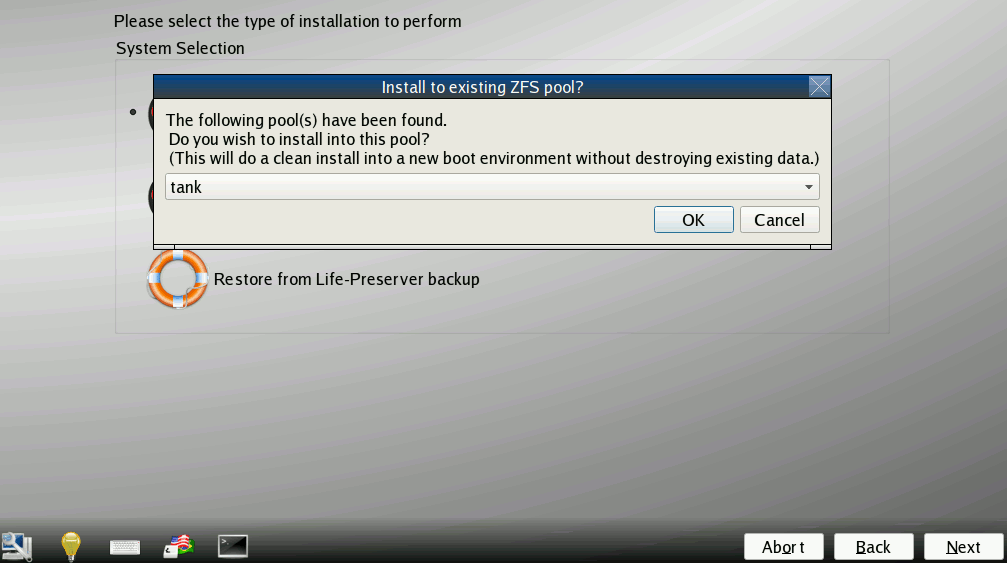
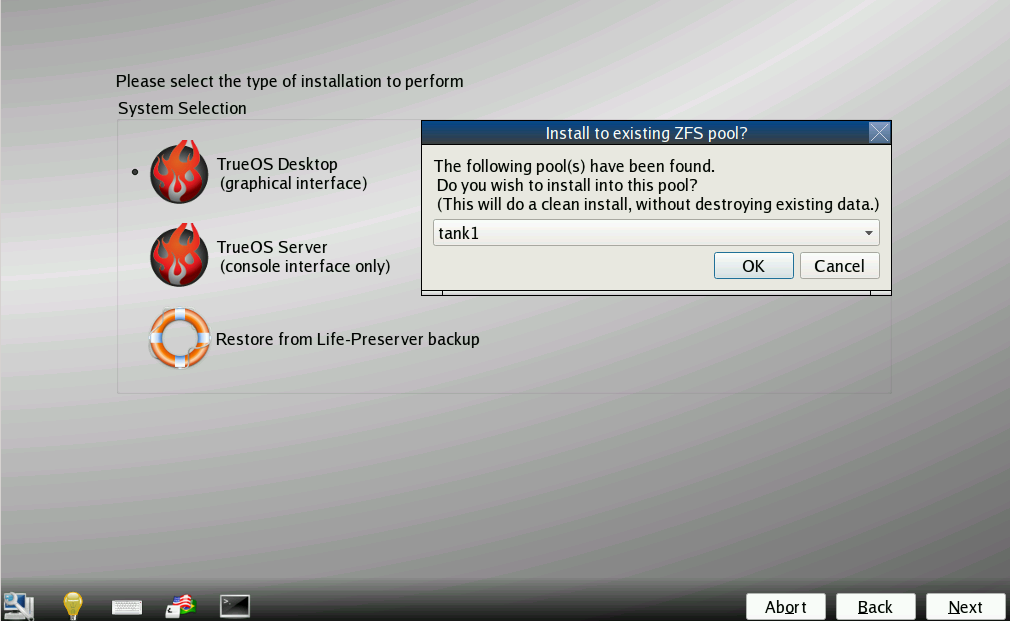
(trueos/trueos-docs #2) Issue resolution and other small changes: - Update forewarning to remove "you" and "your". - Update forewarning to reference all personacrypt accounts. - Fix other "you", "your", "that" references. - Saved deleted image upgrade1.png, renamed new image upgrade1a.png, per docum

diff --git a/trueos-handbook/sysadmclient.rst b/trueos-handbook/sysadmclient.rst
@@ -412,16 +412,17 @@ This tab contains several configurable options:
 
 * **Automatically perform updates:** When checked, the automatic
   updater automatically keeps your system and packages up-to-date.
-  You will know an update has completed when the pop-up menu indicates a
-  reboot is needed to complete the update process. If you uncheck this
-  box, an update will only occur when you choose. You are not required
-  to initiate updates manually. |trueos| uses an automated updater that
+  An update has completed when the pop-up menu indicates a reboot is
+  needed to complete the update process. If
+  :guilabel:`Automatically perform updates` is unchecked, an update will
+  only occur at the user's discretion. Updates are not required to be
+  initiated manually. |trueos| uses an automated updater which
   automatically checks for updates, no more than once per day, 20
   minutes after a reboot and then every 24 hours.
 
-* **Custom Package Repository:** If you have a custom package
-  repository, check this box. This will activate the :guilabel:`URL`
-  field so you can input the URL to the custom repository.
+* **Custom Package Repository:** To use a custom package repository for
+  updates, check this box. This will activate the :guilabel:`URL`
+  field so the user can input the URL to the custom repository.
 
 .. index:: updates
 .. _Upgrading from PC-BSD® 10.x to TrueOS®:
@@ -429,39 +430,39 @@ This tab contains several configurable options:
 Upgrading from |pcbsd| 10.x to |trueos|
 ---------------------------------------
 
-.. warning:: If your primary user account uses PersonaCrypt, please be
-   sure to save your encryption keys to a safe place (e.g. a thumb
-   drive) before you begin the upgrade process. If you do not, you may
-   not be able to import your home directory after the upgrade is
+.. warning:: If any user account uses PersonaCrypt, please be sure to
+   save any encryption keys to a safe place (e.g. a thumb drive) before
+   beginning the upgrade process. Loss of encryption keys may result in
+   being unable to import the home directory after the upgrade is
    complete.
 
-If you are currently using |pcbsd| 10.x, the option to update to
-|trueos| will not appear in the Control Panel version of Update Manager.
-This is because a new installation is required in order to migrate to
-|trueos|. However, the |trueos| installer allows you to keep all your
+If the system is using |pcbsd| 10.x, the option to update to |trueos|
+will not appear in the Control Panel version of Update Manager. This is
+because a new installation is required in order to migrate to |trueos|.
+However, the |trueos| installer allows the user to keep all their
 existing data and home directories, as it provides the ability to
 install |trueos| into a new boot environment. In other words, the new
 operating system and updated applications are installed while the ZFS
 pool and any existing boot environments are preserved. Since the new
-install is in a boot environment, you retain the option to boot back
-into your previous |pcbsd| installation.
+install is in a boot environment, the option to boot back into the
+previous |pcbsd| installation will remain.
 
-.. note:: This option overwrites the contents of :file:`/etc`. If you
-   have any custom configurations, save them to a backup or your home
+.. note:: This option overwrites the contents of :file:`/etc`. If any
+   custom configurations exist, save them to a backup or the home
    directory first. Alternately, use :ref:`Boot Environment Manager`
-   post-installation to mount your previous |pcbsd| boot environment to
-   copy over any configuration files you may forget to backup.
+   post-installation to mount the previous |pcbsd| boot environment to
+   copy over any configuration files which may not have been backed up.
 
 To perform the installation to a new boot environment, start the
 |trueos| installation as described in the
 `TrueOS® Handbook <https://www.trueos.org/handbook/trueos.html>`_. In
 the `System Selection Screen <https://www.trueos.org/handbook/install.html#system-selection-screen>`_,
 choose to install either a desktop or a server. Press :guilabel:`Next`
-to view the pop-up screen shown in :numref:`Figure %s <upgrade1>`.
+to view the pop-up screen shown in :numref:`Figure %s <upgrade1a>`.
 
-.. _upgrade1:
+.. _upgrade1a:
 
-.. figure:: images/upgrade1.png
+.. figure:: images/upgrade1a.png
 
    Install to Boot Environment
 
@@ -490,11 +491,11 @@ post-installation screens will run as described in the
 section of the |trueos| Handbook so you can configure the new
 installation.
 
-.. note:: When you encounter the
-   `Create a User Screen <https://www.trueos.org/handbook/postinstall.html#create-a-user-screen>`_,
-   recreate the primary user account using the same name you used on
-   your |pcbsd| system so |trueos| can associate the existing home
-   directory with that user. Once you have logged in, you can use
+.. note:: During the
+   `Create a User Screen <https://www.trueos.org/handbook/postinstall.html#create-a-user-screen>`_
+   process, recreate the primary user account using the same name used
+   on the previous |pcbsd| system so |trueos| can associate the
+   existing home directory with that user. Once logged in, use
    :ref:`User Manager` to recreate any other user accounts or to
    reassociate any PersonaCrypt accounts.
 
@@ -1049,9 +1050,9 @@ schedule snapshots of a ZFS pool and to optionally replicate those
 snapshots to another system over an encrypted connection. This design
 provides several benefits:
 
-* A snapshot provides a "point-in-time" image of the ZFS dataset. In one
-  way, this is similar to a full system backup as the snapshot contains
-  the information for the entire filesystem. However, it has several
+* A snapshot provides a "point-in-time" image of the ZFS pool. This
+  is similar to a full system backup as the snapshot contains the
+  information for the entire filesystem. However, it has several
   advantages over a full backup. Snapshots occur instantaneously,
   meaning the filesystem does not need to be unmounted and you can
   continue to use applications on your system as the snapshot is
